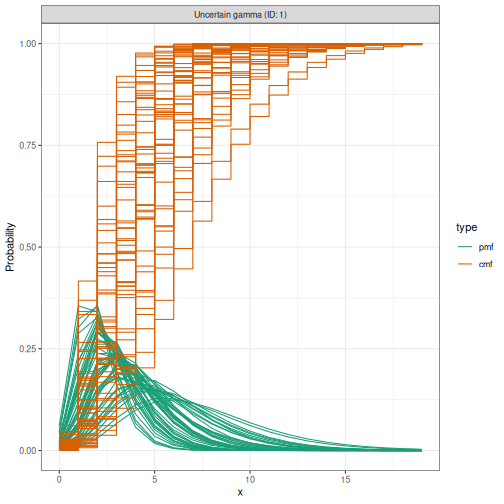
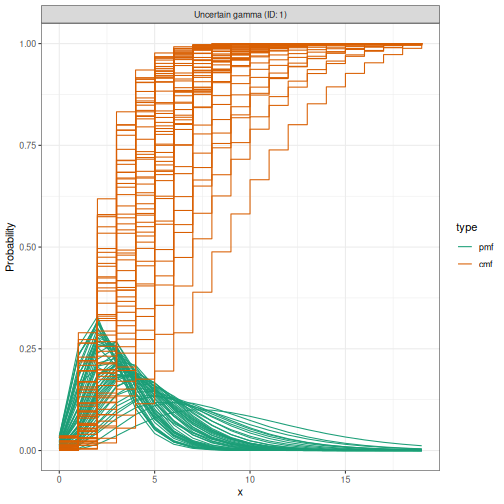
markdown source builds
Auto-generated via `{sandpaper}`
Source  : accc3c311a7c8675b973afd32a682c93a8bfb13e
Branch  : main
Author  : Andree Valle Campos <[email redacted]>
Time    : 2026-07-09 16:01:05 +0000
Message : Remove log normal distribution visualization and quantile example

Removed sections visualizing a log normal distribution and quantile calculation using the epiparameter package.

Changed region(s): [[0.119, 0.0595, 0.8333, 0.8929], [0.5655, 0.2083, 0.625, 0.2976], [0.625, 0.1786, 0.6548, 0.2083]]

diff --git a/quantify-transmissibility.md b/quantify-transmissibility.md
@@ -383,37 +383,6 @@ reporting_delay_variable <- EpiNow2::LogNormal(
 )
 ```
 
-:::::::::::::::::::::: spoiler
-
-**Visualise a log normal distribution using {epiparameter}**
-
-Using `epiparameter::epiparameter()` we can create a custom distribution. The fixed log normal distribution will look like:
-
-```r
-library(epiparameter)
-```
-
-
-``` r
-epiparameter::epiparameter(
-  disease = "covid",
-  epi_name = "reporting delay",
-  prob_distribution =
-    epiparameter::create_prob_distribution(
-      prob_distribution = "lnorm",
-      prob_distribution_params = c(
-        meanlog = 2,
-        sdlog = 1
-      )
-    )
-) %>%
-  plot()
-```
-
-<img src="fig/quantify-transmissibility-rendered-unnamed-chunk-12-1.png" alt="" style="display: block; margin: auto;" />
-
-::::::::::::::::::::::
-
 :::::::::::::::::: spoiler
 
 **How to get the reporting delay from data?**
@@ -449,15 +418,15 @@ outbreaks::ebola_sim_clean$linelist %>%
   meanlog:
     - normal distribution:
       mean:
-        0.24
+        0.23
       sd:
-        0.11
+        0.1
   sdlog:
     - normal distribution:
       mean:
-        1
+        0.98
       sd:
-        0.088
+        0.079
 ```
 
 ::::::::::::::::::
@@ -556,20 +525,9 @@ It follows a LogNormal distribution (`lnorm`), with parameters: `meanlog` and `s
 plot(measles_incubation, xlim = c(0, 25))
 ```
 
-<img src="fig/quantify-transmissibility-rendered-unnamed-chunk-17-1.png" alt="" style="display: block; margin: auto;" />
+<img src="fig/quantify-transmissibility-rendered-unnamed-chunk-16-1.png" alt="" style="display: block; margin: auto;" />
 
 From plot, a plausible maximum value for the incubation period could be 20 days.
-
-We can also ask for the 99% quantile using the distribution functions for `<epiparameter>` objects.
-
-
-``` r
-quantile(measles_incubation, p = 0.99)
-```
-
-``` output
-[1] 20.23301
-```
 
 Then, our EpiNow2 function is:
 
@@ -592,6 +550,8 @@ measles_incubation_epinow
     0.21
 ```
 
+Or `epiparameter::get_parameters(measles_incubation)` to reuse parameters directly.
+
 The plot for {EpiNow2} is:
 
 
@@ -599,7 +559,7 @@ The plot for {EpiNow2} is:
 plot(measles_incubation_epinow)
 ```
 
-<img src="fig/quantify-transmissibility-rendered-unnamed-chunk-20-1.png" alt="" style="display: block; margin: auto;" />
+<img src="fig/quantify-transmissibility-rendered-unnamed-chunk-18-1.png" alt="" style="display: block; margin: auto;" />
 
 Notice that if we forget to define a maximum value, we will get an error in this step.
 
@@ -718,7 +678,7 @@ We can extract and visualise estimates of the effective reproduction number thro
 plot(estimates, type = "R")
 ```
 
-<img src="fig/quantify-transmissibility-rendered-unnamed-chunk-25-1.png" alt="" style="display: block; margin: auto;" />
+<img src="fig/quantify-transmissibility-rendered-unnamed-chunk-23-1.png" alt="" style="display: block; margin: auto;" />
 
 The uncertainty in the estimates increases through time. This is because estimates are informed by data in the past - within the delay periods. 
 
@@ -734,7 +694,7 @@ We can also visualise the growth rate estimate through time:
 plot(estimates, type = "growth_rate")
 ```
 
-<img src="fig/quantify-transmissibility-rendered-unnamed-chunk-26-1.png" alt="" style="display: block; margin: auto;" />
+<img src="fig/quantify-transmissibility-rendered-unnamed-chunk-24-1.png" alt="" style="display: block; margin: auto;" />
 
 To extract a summary of the key transmission metrics at the *latest date* in the data:
 
@@ -746,22 +706,22 @@ summary(estimates)
 ``` output
                         measure               estimate
                          <char>                 <char>
-1:       New infections per day   7892 (4760 -- 13112)
+1:       New infections per day   7973 (4780 -- 12962)
 2:   Expected change in reports                 Stable
-3:   Effective reproduction no.     0.96 (0.74 -- 1.2)
-4:               Rate of growth -0.013 (-0.1 -- 0.075)
-5: Doubling/halving time (days)      -52 (9.3 -- -6.7)
+3:   Effective reproduction no.     0.97 (0.74 -- 1.2)
+4:               Rate of growth -0.011 (-0.1 -- 0.077)
+5: Doubling/halving time (days)        -63 (9 -- -6.8)
 ```
 
 As these estimates are based on partial data, they have a wide uncertainty interval.
 
-+ From the summary of our analysis we see that the expected change in reports is Stable with the estimated new infections 7892 (4760 -- 13112).
++ From the summary of our analysis we see that the expected change in reports is Stable with the estimated new infections 7973 (4780 -- 12962).
 
-+ The effective reproduction number $R_t$ estimate (on the last date of the data) is 0.96 (0.74 -- 1.2). 
++ The effective reproduction number $R_t$ estimate (on the last date of the data) is 0.97 (0.74 -- 1.2). 
 
-+ The exponential growth rate of case numbers is -0.013 (-0.1 -- 0.075).
++ The exponential growth rate of case numbers is -0.011 (-0.1 -- 0.077).
 
-+ The doubling time (the time taken for case numbers to double) is -52 (9.3 -- -6.7).
++ The doubling time (the time taken for case numbers to double) is -63 (9 -- -6.8).
 
 ::::::::::::::::::::::::::::::::::::: callout
 ### `Expected change in reports` 